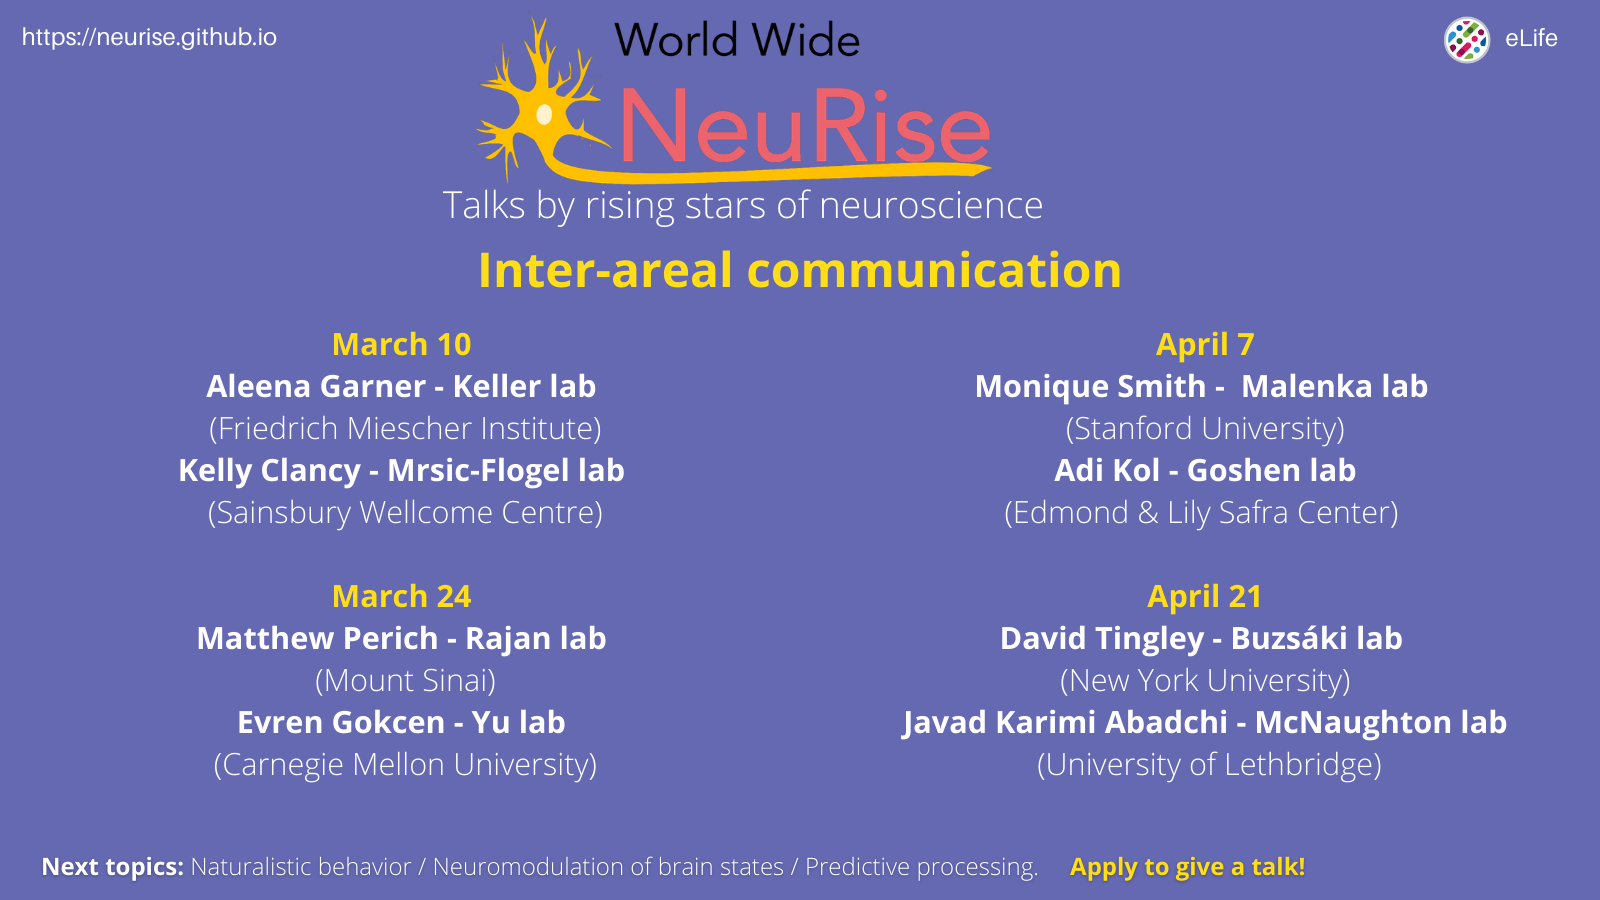
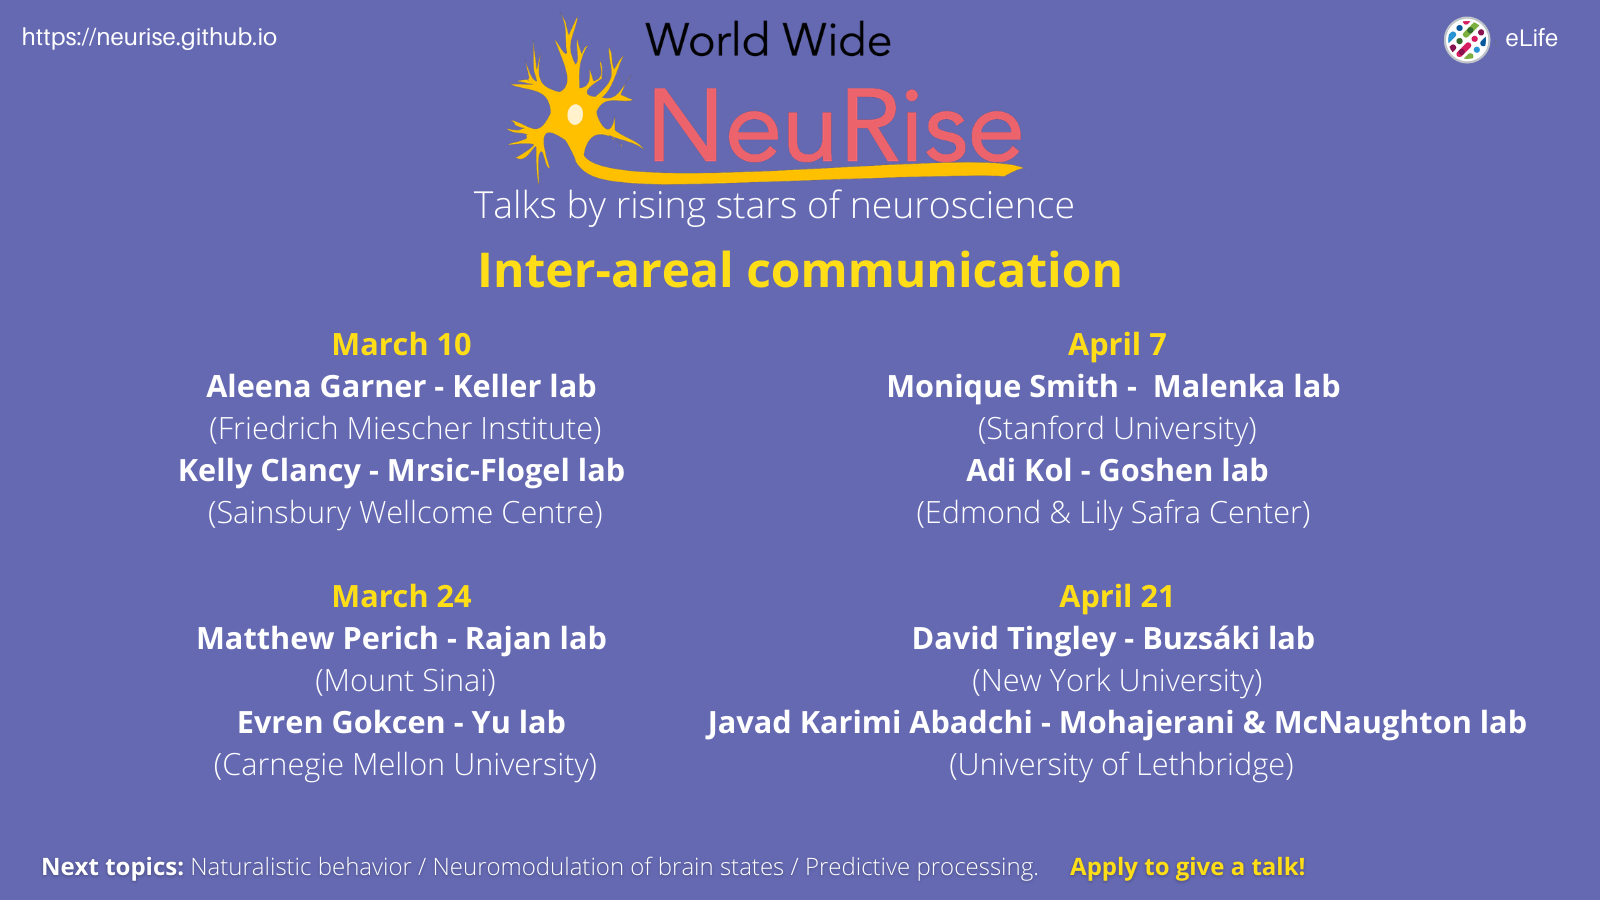
update speaker affiliation

Changed region(s): [[0.4375, 0.6533, 0.9688, 0.8711], [0.2812, 0.0, 0.6875, 0.2489], [0.5625, 0.3733, 0.9062, 0.5911]]

diff --git a/index.html b/index.html
@@ -726,7 +726,7 @@
     
     
     <a href="/project/inter-areal/"  class="card-image">
-      <img src="/project/inter-areal/featured_hufed526c15b60eaf044f9c72ccf9fd5c9_236738_550x0_resize_q90_lanczos_2.png" alt="" class="img-responsive">
+      <img src="/project/inter-areal/featured_hubeb64d5be219bf2cb168270cca40906c_237211_550x0_resize_q90_lanczos_2.png" alt="" class="img-responsive">
     </a>
     
     <div class="card-body">
